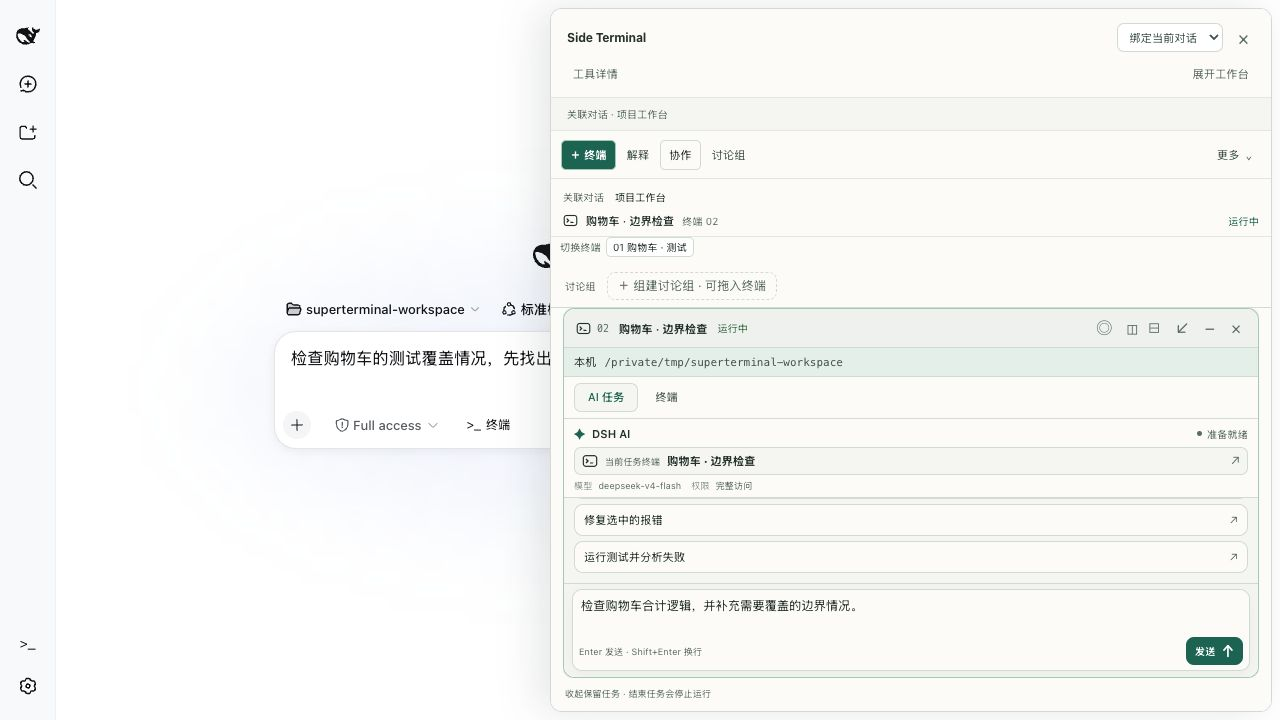
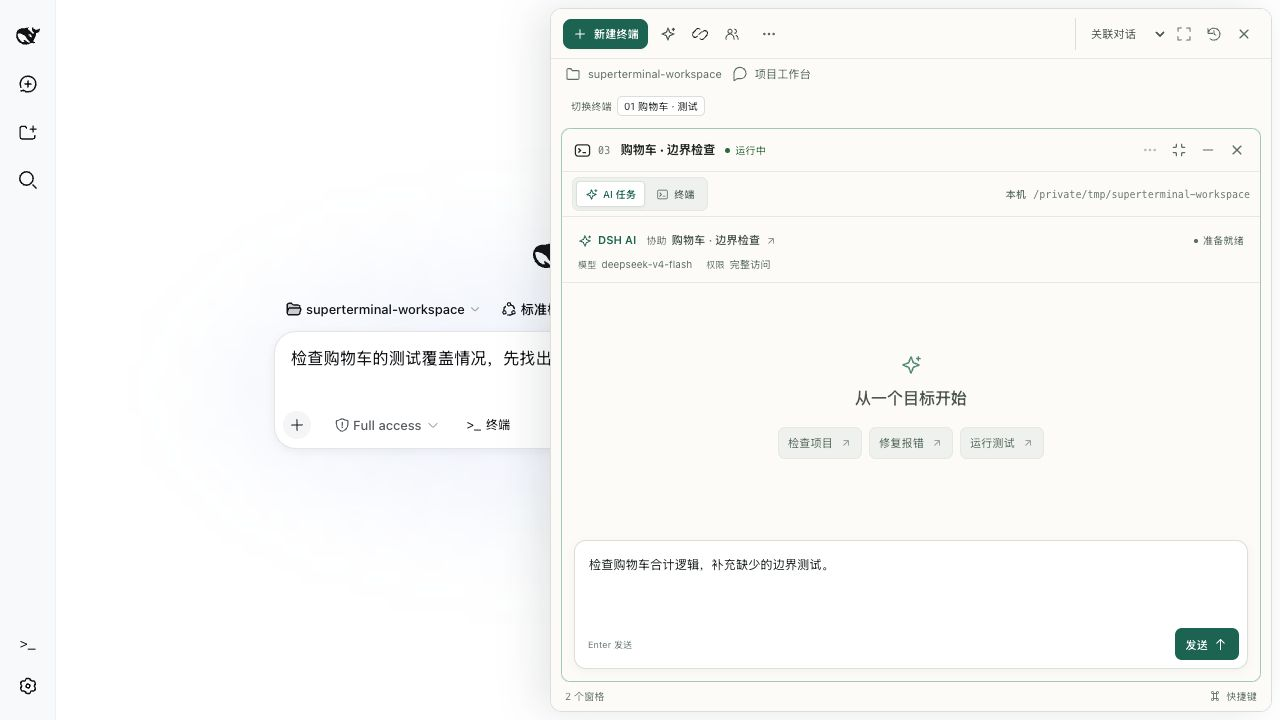
Release alpha.14 with refreshed product screenshots and guide

diff --git a/site/index.html b/site/index.html
@@ -36,7 +36,7 @@
   <main id="main">
     <section class="hero section-shell" aria-labelledby="hero-title">
       <div class="hero-copy">
-        <a class="release-pill" href="https://github.com/Harzva/dsh-superterminal/releases/tag/v0.1.0-alpha.13"><span class="release-dot" aria-hidden="true"></span><span>alpha.13</span><span class="pill-divider"></span><span data-en="A lighter workspace. The same real work.">浅色工作台，任务继续</span><span aria-hidden="true">↗</span></a>
+        <a class="release-pill" href="https://github.com/Harzva/dsh-superterminal/releases/tag/v0.1.0-alpha.14"><span class="release-dot" aria-hidden="true"></span><span>alpha.14</span><span class="pill-divider"></span><span data-en="Clearer controls. More room for your task.">常用操作，就在手边</span><span aria-hidden="true">↗</span></a>
         <h1 id="hero-title"><span data-en="Say it.">说出目标。</span><br><span class="hero-highlight" data-en="Get it done.">让终端去完成。</span></h1>
         <p class="hero-description" data-en="Your conversation on one side. Real work on the other. Ask DSH to read files, edit code, and run commands—right in your terminal.">一边对话，一边把事情做完。用自然语言，让 DSH 读取文件、修改代码、执行命令。</p>
         <div class="hero-actions"><a class="button button-dark" href="#install"><span data-en="Get SuperTerminal">开始使用</span><span aria-hidden="true">↗</span></a><a class="button button-plain" href="https://github.com/Harzva/dsh-superterminal">GitHub <span aria-hidden="true">↗</span></a></div>
@@ -52,13 +52,13 @@
           <button type="button" role="tab" id="tour-tab-agents" data-tour="agents" aria-controls="tour-panel-agents" aria-selected="false" tabindex="-1"><span data-en="Agents">智能体目录</span></button>
         </div>
         <div class="tour-panel" role="tabpanel" id="tour-panel-workspace" data-tour-panel aria-labelledby="tour-tab-workspace" tabindex="0">
-          <figure class="product-figure hero-figure"><button class="screenshot-button" type="button" data-screenshot aria-label="查看自由分屏完整截图" data-aria-en="View the full workspace screenshot"><img src="./assets/screenshots/light-workspace.jpg" width="1280" height="720" alt="DSH SuperTerminal alpha.13 浅色工作台" data-alt-en="DSH SuperTerminal alpha.13 light workspace" fetchpriority="high"><span class="image-expand" aria-hidden="true">⤢</span></button><figcaption><strong data-en="A clearer place to work.">让工作，看得更清楚。</strong><span data-en="alpha.13 · Light appearance">alpha.13 · 浅色外观</span></figcaption></figure>
+          <figure class="product-figure hero-figure"><button class="screenshot-button" type="button" data-screenshot aria-label="查看自由分屏完整截图" data-aria-en="View the full workspace screenshot"><img src="./assets/screenshots/light-workspace.jpg" width="1280" height="720" alt="DSH SuperTerminal alpha.14 浅色工作台" data-alt-en="DSH SuperTerminal alpha.14 light workspace" fetchpriority="high"><span class="image-expand" aria-hidden="true">⤢</span></button><figcaption><strong data-en="One toolbar. Your task in focus.">常用操作集中，当前任务清楚。</strong><span data-en="alpha.14 · Focused workspace">alpha.14 · 精简工作台</span></figcaption></figure>
         </div>
         <div class="tour-panel" role="tabpanel" id="tour-panel-ai" data-tour-panel aria-labelledby="tour-tab-ai" tabindex="0" hidden>
           <figure class="product-figure hero-figure"><button class="screenshot-button" type="button" data-screenshot aria-label="查看AI 任务完整截图" data-aria-en="View the full ai tasks screenshot"><img src="./assets/screenshots/ai-task.jpg" width="1280" height="1000" alt="alpha.8 真实 AI 任务：自然语言修复购物车并通过测试" data-alt-en="Actual alpha.8 AI task: a natural-language cart fix with passing tests" loading="lazy"><span class="image-expand" aria-hidden="true">⤢</span></button><figcaption><strong data-en="Start with your goal.">把任务说出来。</strong><span data-en="alpha.8 · Actual AI task">alpha.8 · 真实 AI 任务</span></figcaption></figure>
         </div>
         <div class="tour-panel" role="tabpanel" id="tour-panel-side" data-tour-panel aria-labelledby="tour-tab-side" tabindex="0" hidden>
-          <figure class="product-figure hero-figure"><button class="screenshot-button" type="button" data-screenshot aria-label="查看Side Terminal完整截图" data-aria-en="View the full side terminal screenshot"><img src="./assets/screenshots/light-side-terminal.jpg" width="1280" height="720" alt="DSH SuperTerminal alpha.13 浅色 Side Terminal" data-alt-en="DSH SuperTerminal alpha.13 light Side Terminal" loading="lazy"><span class="image-expand" aria-hidden="true">⤢</span></button><figcaption><strong data-en="Right beside your conversation.">和当前对话，刚好并肩。</strong><span data-en="alpha.13 · Light Side Terminal">alpha.13 · 浅色 Side Terminal</span></figcaption></figure>
+          <figure class="product-figure hero-figure"><button class="screenshot-button" type="button" data-screenshot aria-label="查看Side Terminal完整截图" data-aria-en="View the full side terminal screenshot"><img src="./assets/screenshots/light-side-terminal.jpg" width="1280" height="720" alt="DSH SuperTerminal alpha.14 浅色 Side Terminal" data-alt-en="DSH SuperTerminal alpha.14 light Side Terminal" loading="lazy"><span class="image-expand" aria-hidden="true">⤢</span></button><figcaption><strong data-en="Right beside your conversation.">和当前对话，刚好并肩。</strong><span data-en="alpha.14 · Light Side Terminal">alpha.14 · 浅色 Side Terminal</span></figcaption></figure>
         </div>
         <div class="tour-panel" role="tabpanel" id="tour-panel-agents" data-tour-panel aria-labelledby="tour-tab-agents" tabindex="0" hidden>
           <figure class="product-figure hero-figure"><button class="screenshot-button" type="button" data-screenshot aria-label="查看智能体目录完整截图" data-aria-en="View the full agents screenshot"><img src="./assets/screenshots/agents.jpg" width="1280" height="1000" alt="alpha.8 实际智能体目录：本机 CLI、版本与使用状态" data-alt-en="Actual alpha.8 agent library: local CLIs, versions and readiness evidence" loading="lazy"><span class="image-expand" aria-hidden="true">⤢</span></button><figcaption><strong data-en="Your familiar agents, within reach.">熟悉的搭档，随时就位。</strong><span data-en="alpha.8 · Actual agent library">alpha.8 · 实际智能体目录</span></figcaption></figure>
@@ -102,14 +102,14 @@
     <section class="side-section" aria-labelledby="side-title">
       <div class="section-shell side-grid">
         <div class="feature-copy"><p class="eyebrow">SIDE TERMINAL</p><h2 id="side-title"><span data-en="Right beside">就在对话旁。</span><br><span data-en="your conversation.">刚好接得上。</span></h2><p data-en="Keep a terminal in DSH’s right sidebar. Bind it to the conversation you are working on, or keep an independent workspace open as you move between conversations.">把终端放在 DSH 右侧栏。可以关联当前对话，也可以独立运行，切换对话时继续保留自己的工作区。</p><ul class="quiet-list"><li data-en="Bound to a conversation, or independent">关联对话，或独立工作</li><li data-en="Expand when you need more room">需要空间时，展开工作区</li><li data-en="Keep each terminal’s context and draft together">上下文与草稿，跟随各自终端</li></ul><a class="text-link" href="#install"><span data-en="Make room for your next task">为下一件事，留个位置</span><span aria-hidden="true">↗</span></a></div>
-        <figure class="product-figure side-figure"><button class="screenshot-button" type="button" data-screenshot aria-label="放大 Side Terminal 截图" data-aria-en="Enlarge the Side Terminal screenshot"><img src="./assets/screenshots/light-side-terminal.jpg" width="1280" height="720" loading="lazy" alt="alpha.13 浅色 Side Terminal，与当前对话并肩" data-alt-en="alpha.13 light Side Terminal, beside the current conversation"><span class="image-expand" aria-hidden="true">⤢</span></button><figcaption><span data-en="Your conversation and your work, together.">让对话和工作，待在一起。</span><span class="caption-id">alpha.13 / SIDE TERMINAL</span></figcaption></figure>
+        <figure class="product-figure side-figure"><button class="screenshot-button" type="button" data-screenshot aria-label="放大 Side Terminal 截图" data-aria-en="Enlarge the Side Terminal screenshot"><img src="./assets/screenshots/light-side-terminal.jpg" width="1280" height="720" loading="lazy" alt="alpha.14 浅色 Side Terminal，与当前对话并肩" data-alt-en="alpha.14 light Side Terminal, beside the current conversation"><span class="image-expand" aria-hidden="true">⤢</span></button><figcaption><span data-en="Your conversation and your work, together.">让对话和工作，待在一起。</span><span class="caption-id">alpha.14 / SIDE TERMINAL</span></figcaption></figure>
       </div>
     </section>
 
     <section class="workspace-section section-shell" id="workspace" aria-labelledby="workspace-title">
-      <div class="section-heading heading-split"><div><p class="eyebrow" data-en="A LITTLE SPACE. MANY POSSIBILITIES.">一片空间，许多可能。</p><h2 id="workspace-title"><span data-en="Your tools.">你的工具。</span><br><span data-en="Your way of working.">按你的方式排开。</span></h2></div><p data-en="Give each task its own pane. Resize, split, expand, and switch between AI tasks and the native terminal, without ending the terminal process.">给每个任务一个窗格。自由调整大小、分屏、放大，在 AI 任务与原生终端间切换，终端进程持续保留。</p></div>
+      <div class="section-heading heading-split"><div><p class="eyebrow" data-en="A LITTLE SPACE. MANY POSSIBILITIES.">一片空间，许多可能。</p><h2 id="workspace-title"><span data-en="Your tools.">你的工具。</span><br><span data-en="Your way of working.">按你的方式排开。</span></h2></div><p data-en="Give each task its own pane. Select an empty pane to choose AI or a CLI; other empty panes keep a compact Add terminal entry. Resize, split, and expand while keeping your chosen layout.">给每个任务一个窗格。选中的空窗格展开 AI 与 CLI 选项，其余空窗格保留“添加终端”。自由调节大小、分屏或放大，按你安排的布局工作。</p></div>
       <a class="workspace-tour-link" href="#product-tour"><span data-en="Back to the product screenshot tour">返回产品截图导览</span><span aria-hidden="true">↑</span></a>
-      <div class="workspace-notes"><div><span class="note-number">01</span><p><strong data-en="Light, dark, or your system">浅色、深色，随你选择</strong><span data-en="Choose More → Appearance. Keep the same tasks and drafts.">更多 → 外观，切换时保留任务与草稿。</span></p></div><div><span class="note-number">02</span><p><strong data-en="Context with a clear owner">上下文，有明确的归属</strong><span data-en="Share a selection explicitly with the current task.">选中内容，明确交给当前任务。</span></p></div><div><span class="note-number">03</span><p><strong data-en="Handoffs you can follow">交接，可以一路追踪</strong><span data-en="Send work to Pi or Codex, review it, and request rework.">交给 Pi 或 Codex，验收结果，继续返工。</span></p></div></div>
+      <div class="workspace-notes"><div><span class="note-number">01</span><p><strong data-en="Light, dark, or your system">浅色、深色，随你选择</strong><span data-en="Choose More → Appearance. Keep the same tasks and drafts.">更多 → 外观，切换时保留任务与草稿。</span></p></div><div><span class="note-number">02</span><p><strong data-en="Context with a clear owner">上下文，有明确的归属</strong><span data-en="See the project and conversation together; choose what to share with the current task.">项目与会话归属在同一行，选中内容明确交给当前任务。</span></p></div><div><span class="note-number">03</span><p><strong data-en="Handoffs you can follow">交接，可以一路追踪</strong><span data-en="Send work to Pi or Codex, review it, and request rework.">交给 Pi 或 Codex，验收结果，继续返工。</span></p></div></div>
     </section>
 
     <section class="agents-section section-shell" aria-labelledby="agents-title">
@@ -119,11 +119,11 @@
 
     <section class="install-section section-shell" id="install" aria-labelledby="install-title">
       <div class="install-card"><div class="install-heading"><div><p class="eyebrow" data-en="READY WHEN YOU ARE.">下一件事，从这里开始。</p><h2 id="install-title"><span data-en="A smarter place">给你的 DSH，</span><br><span data-en="to get things done.">一只会干活的终端。</span></h2></div><img class="install-cat" src="./assets/logo.svg" width="128" height="128" alt="Mimi，SuperTerminal 的薄荷绿终端小猫" data-alt-en="Mimi, SuperTerminal’s mint-green terminal cat"></div>
-        <div class="install-requirements"><span>macOS</span><span>Node.js 24+</span><span>DSH 0.1.1-rc.2</span><span>0.1.0-alpha.13</span></div>
-        <div class="install-command"><div class="command-toolbar"><span data-en="Run in your terminal">在终端中运行</span><button id="copy-install" type="button"><span aria-hidden="true">⧉</span><span data-en="Copy command">复制命令</span></button></div><pre tabindex="0" aria-label="安装命令" data-aria-en="Installation command"><code id="install-code">dsh plugin --profile web add https://github.com/Harzva/dsh-superterminal/releases/download/v0.1.0-alpha.13/harzva-dsh-terminal-0.1.0-alpha.13.tgz</code></pre></div>
+        <div class="install-requirements"><span>macOS</span><span>Node.js 24+</span><span>DSH 0.1.1-rc.2</span><span>0.1.0-alpha.14</span></div>
+        <div class="install-command"><div class="command-toolbar"><span data-en="Run in your terminal">在终端中运行</span><button id="copy-install" type="button"><span aria-hidden="true">⧉</span><span data-en="Copy command">复制命令</span></button></div><pre tabindex="0" aria-label="安装命令" data-aria-en="Installation command"><code id="install-code">dsh plugin --profile web add https://github.com/Harzva/dsh-superterminal/releases/download/v0.1.0-alpha.14/harzva-dsh-terminal-0.1.0-alpha.14.tgz</code></pre></div>
         <p id="copy-feedback" class="copy-feedback" role="status" aria-live="polite"></p>
         <p class="install-note" data-en="After installation, restart the DSH profile you installed into (web for this command). Use the Terminal button in the input bar or enter /terminal to open the right sidebar. Configure a working DSH model before running AI tasks.">安装完成后，重启所选 DSH 配置（此命令为 web）。点击输入栏中的“终端”，或输入 /terminal 打开右侧栏。执行 AI 任务前，请先配置可用的 DSH 模型。</p>
-        <div class="install-links"><a href="https://github.com/Harzva/dsh-superterminal/blob/main/docs/guide.zh-CN.md"><span data-en="Read the guide">阅读使用指南</span><span aria-hidden="true">↗</span></a><a href="https://github.com/Harzva/dsh-superterminal/releases/tag/v0.1.0-alpha.13"><span data-en="Release notes">版本更新</span><span aria-hidden="true">↗</span></a></div>
+        <div class="install-links"><a href="https://github.com/Harzva/dsh-superterminal/blob/main/docs/guide.zh-CN.md"><span data-en="Read the guide">阅读使用指南</span><span aria-hidden="true">↗</span></a><a href="https://github.com/Harzva/dsh-superterminal/releases/tag/v0.1.0-alpha.14"><span data-en="Release notes">版本更新</span><span aria-hidden="true">↗</span></a></div>
       </div>
     </section>
 
@@ -132,7 +132,7 @@
       <details><summary><span data-en="Can Side Terminal work independently?">Side Terminal 可以独立于对话吗？</span><span aria-hidden="true">+</span></summary><p data-en="Yes. Bind it to a conversation, or use an independent workspace session that stays in place when you switch conversations. Existing terminals are not migrated between these two scopes.">可以。你可以关联当前对话，也可以使用独立工作区会话，在切换对话时继续保留。两种范围中的已有终端分别归属各自会话。</p></details>
       <details><summary><span data-en="Does every agent support background handoffs?">所有智能体都支持后台任务交接吗？</span><span aria-hidden="true">+</span></summary><p data-en="Installed CLIs can run in native terminal panes. Managed background handoffs currently support the Pi and Codex protocols, with result review and linked rework. Launching a CLI and managing a background task are separate capabilities.">已安装的 CLI 可以在原生终端窗格中运行。目前受管后台交接支持 Pi 与 Codex 协议，可验收结果并关联返工。打开 CLI 与管理后台任务是两项独立能力。</p></details>
       <details><summary><span data-en="Will a group share all my terminal history?">加入讨论组，会分享所有终端历史吗？</span><span aria-hidden="true">+</span></summary><p data-en="Joining a group does not broadcast old terminal logs. You choose which text to attach before sending. Each terminal’s DSH AI retains its own conversation context; only its new reply is added to the group. Stop a discussion to keep completed replies, and start a new request explicitly when ready. Interrupted discussions are not automatically rerun after a restart.">加入组不会自动广播旧终端日志，你可以在发送前选择并预览附上的内容。各终端 DSH AI 保留自己的会话上下文，只把本次回复加入组内讨论。停止后保留已完成的发言；重启后中断的讨论不会自动重跑，需要你明确发起下一次问题。</p></details>
-      <details><summary><span data-en="Which platforms are supported?">目前支持哪些环境？</span><span aria-hidden="true">+</span></summary><p data-en="Alpha.13 supports macOS with Node.js 24+ and official DSH 0.1.1-rc.2. SSH terminals require an existing noninteractive SSH connection and remote tmux. Connections, resize, reconnect and task cleanup have been verified on macOS and Linux remote hosts. Remote model execution and quota were not part of these checks; recovery across DSH restarts is not guaranteed. Remote Agent CLIs are supported; native DSH AI execution and Groups remain local. Windows and other DSH versions are not currently supported.">alpha.13 支持 macOS、Node.js 24+ 与官方 DSH 0.1.1-rc.2。SSH 远程终端需要已有的免交互连接与远端 tmux，已在 macOS 和 Linux 远端验证连接、尺寸调整、断线重连与任务清理。远端模型执行和额度不在本次验收范围内；当前不保证跨 DSH 重启续接。可运行远端 Agent CLI，DSH AI 执行与讨论组仍限本机。当前暂不支持 Windows 或其他 DSH 版本。</p></details>
+      <details><summary><span data-en="Which platforms are supported?">目前支持哪些环境？</span><span aria-hidden="true">+</span></summary><p data-en="Alpha.14 supports macOS with Node.js 24+ and official DSH 0.1.1-rc.2. SSH terminals require an existing noninteractive SSH connection and remote tmux. Alpha.13 verified connections, resize, reconnect and task cleanup on macOS and Linux remote hosts; alpha.14 retains that execution behavior. Remote model execution and quota were not part of those checks; recovery across DSH restarts is not guaranteed. Remote Agent CLIs are supported; native DSH AI execution and Groups remain local. Windows and other DSH versions are not currently supported.">alpha.14 支持 macOS、Node.js 24+ 与官方 DSH 0.1.1-rc.2。SSH 远程终端需要已有的免交互连接与远端 tmux。alpha.13 已在 macOS 和 Linux 远端验证连接、尺寸调整、断线重连与任务清理，alpha.14 沿用这项能力。远端模型执行和额度不在该次验收范围内；当前不保证跨 DSH 重启续接。可运行远端 Agent CLI，DSH AI 执行与讨论组仍限本机。当前暂不支持 Windows 或其他 DSH 版本。</p></details>
     </div></section>
   </main>
 

diff --git a/README.md b/README.md
@@ -16,23 +16,23 @@
   <a href="https://github.com/Harzva/dsh-superterminal/releases">更新记录</a>
 </p>
 
-![DSH SuperTerminal alpha.13 浅色工作台](https://raw.githubusercontent.com/Harzva/dsh-superterminal/main/site/assets/screenshots/light-workspace.jpg)
+![DSH SuperTerminal alpha.14 浅色工作台](https://raw.githubusercontent.com/Harzva/dsh-superterminal/main/site/assets/screenshots/light-workspace.jpg)
 
-**alpha.13 浅色外观。** 通过 **更多 → 外观** 选择浅色、深色或跟随系统，切换时保留运行中的任务、输出和草稿。
+**alpha.14 工作台。** 启动选项集中在当前空窗格，其余窗格显示“添加终端”，保留你安排好的分屏。通过 **更多 → 外观** 选择浅色、深色或跟随系统，切换时保留任务、输出和草稿。
 
 ## 安装
 
-当前版本 **0.1.0-alpha.13**，默认使用浅色外观，并改进 SSH 连接的就绪确认。在同一个工作台选择执行主机，断线后接回原任务。支持 **macOS · Node.js 24+ · 官方 DSH 0.1.1-rc.2**。
+当前版本 **0.1.0-alpha.14**，将新建终端、助手、协作与讨论组集中在工具栏，项目与会话归属在下方一行显示。支持 **macOS · Node.js 24+ · 官方 DSH 0.1.1-rc.2**。
 
 ```sh
-dsh plugin --profile web add https://github.com/Harzva/dsh-superterminal/releases/download/v0.1.0-alpha.13/harzva-dsh-terminal-0.1.0-alpha.13.tgz
+dsh plugin --profile web add https://github.com/Harzva/dsh-superterminal/releases/download/v0.1.0-alpha.14/harzva-dsh-terminal-0.1.0-alpha.14.tgz
 ```
 
 首次运行：
 
 1. 重启所选 DSH 配置（上述命令为 `web`），在输入栏点击 **终端**，或输入 **/terminal**。
 2. 在来源对话中选择可用的 DSH 模型，第一次发送 AI 任务时会沿用它。任务按来源工作区权限执行；本插件不附带模型或额度。
-3. 点击 **＋ 终端**，写下第一个任务；通过 **更多 → 智能体管理** 打开本机 CLI。
+3. 点击 **新建终端**，写下第一个 AI 任务；也可在选中的空窗格直接打开 Shell、Codex、Claude Code 或 Kimi Code，更多工具在 **全部智能体** 中。
 
 目前仍为 Alpha，暂不支持 Windows、其他 DSH 版本或 Harvis 接管。远程终端暂不支持 DSH AI 的文件操作与自动参会；可直接使用远端 Agent CLI。DSH Supervisor 的终端状态适配尚未包含在公开 Supervisor 0.2.4 中。
 
@@ -56,21 +56,21 @@ dsh plugin --profile web add https://github.com/Harzva/dsh-superterminal/release
 <details>
 <summary><strong>查看截图：对话旁的 Side Terminal</strong></summary>
 
-绑定当前对话，或留在独立工作台。收起侧栏，任务继续。
+绑定当前对话，或留在独立工作台。窄侧栏通过 **更多** 打开解释建议、Agent 协作和讨论组；收起侧栏，任务继续。
 
-![DSH SuperTerminal alpha.13 浅色 Side Terminal](https://raw.githubusercontent.com/Harzva/dsh-superterminal/main/site/assets/screenshots/light-side-terminal.jpg)
+![DSH SuperTerminal alpha.14 浅色 Side Terminal](https://raw.githubusercontent.com/Harzva/dsh-superterminal/main/site/assets/screenshots/light-side-terminal.jpg)
 
 </details>
 
 ## 同一个工作台，连接远端终端
 
-在空窗格选择 **SSH 远程**，选择已有 SSH 主机、填写远端绝对目录（`~` 表示远端主目录），点击 **检查连接**。检查成功后，可启动 Shell 或远端实际检测到的 Agent CLI。运行中的窗格始终显示执行主机与目录。
+选择一个空窗格，点击 **SSH**，选择已有 SSH 主机、填写远端绝对目录（`~` 表示远端主目录），点击 **检查连接**。检查成功后，可启动 Shell 或远端实际检测到的 Agent CLI。运行中的窗格始终显示执行主机与目录。
 
 使用本机已有的 SSH 配置和认证，远端需要安装 **tmux**。首次使用前，应已通过系统 SSH 完成主机身份确认，并能免交互登录。当前来源 DSH 会话需为 **Full access**；本插件不会自动更改权限。
 
 **收起**保留任务；SSH 中断后点击 **重新连接** 接回原进程，不重新执行任务；**结束任务**会停止这个远端任务。远端 CLI 使用远端账号和模型配置，“已检测到”不代表登录、模型或额度已就绪。
 
-首版支持远端原生 Shell / Agent CLI 和显式选区的解释建议。DSH AI 执行、自动交接、Terminal Group 仍限本机；不会把远端目标交给本机文件工具。已在 macOS 和 Linux 远端实机验证连接、终端尺寸调整、断线重连与任务清理。远端模型执行与额度未包含在这次验收中，跨 DSH 重启续接仍不提供保证。详见[远程终端指南](https://github.com/Harzva/dsh-superterminal/blob/main/docs/guide.zh-CN.md#连接远端终端)。
+远端支持原生 Shell / Agent CLI 和显式选区的解释建议。DSH AI 执行、自动交接、Terminal Group 仍限本机；不会把远端目标交给本机文件工具。alpha.13 已在 macOS 和 Linux 远端实机验证连接、终端尺寸调整、断线重连与任务清理；alpha.14 沿用该执行实现。远端模型执行与额度未包含在该次验收中，跨 DSH 重启续接仍不提供保证。详见[远程终端指南](https://github.com/Harzva/dsh-superterminal/blob/main/docs/guide.zh-CN.md#连接远端终端)。
 
 ## 让不同终端，一起讨论
 
@@ -78,7 +78,7 @@ dsh plugin --profile web add https://github.com/Harzva/dsh-superterminal/release
 
 ![alpha.9 实际界面：DSH AI 与 Pi 参会，讨论结论交给 Agent 执行](https://raw.githubusercontent.com/Harzva/dsh-superterminal/main/site/assets/screenshots/terminal-group.jpg)
 
-1. 拖动终端标题到讨论组，或点击 **新建讨论组** 选择成员；每组最多 6 个终端。
+1. 打开 **讨论组 → 新建讨论组** 选择成员，或从终端的 **更多 → 加入讨论组** 邀请成员；每组最多 6 个终端。
 2. 写下问题，指定本次发言的成员。**1 轮**收集各自意见；**2 轮**让成员参考上一轮回复继续讨论。
 3. 选择一位成员 **形成结论**。结论注明作者，整理共识、分歧与待办；它不代表所有成员已经同意。
 4. 点击 **将结论交给 Agent 执行**，确认执行者与验收标准。结果返回后可验收，或携带原目标和结果安排返工。

diff --git a/CHANGELOG.md b/CHANGELOG.md
@@ -1,5 +1,14 @@
 # 更新记录
 
+## 0.1.0-alpha.14
+
+- 顶部收拢为工具栏与一行项目、会话归属，助手、协作与讨论组仍是独立入口；窄侧栏从“更多”进入。
+- 仅在选中的空窗格展开 AI 任务与四个 CLI 图标快捷入口，其他空窗格显示“添加终端”，不重排已有分屏。
+- 统一按钮、图标与文字间距，减少重复标题和空态提示，为终端内容留出空间。
+- 运行窗格保留放大、收起、结束操作，将分屏和加入讨论组收进窗格菜单；快捷键说明按需展开。
+- 更新 README、指南与官网说明，展示本版浅色工作台和 Side Terminal。
+- 沿用 alpha.13 的 SSH 执行实现；该版已完成 macOS 与 Linux 远端连接、尺寸、重连和清理验收，未覆盖远端模型、额度或跨 DSH 重启续接。
+
 ## 0.1.0-alpha.13
 
 - 默认使用浅色外观，并在“更多 → 外观”保留深色与跟随系统；Side Terminal、工作台、助手、协作与讨论界面同步切换。
